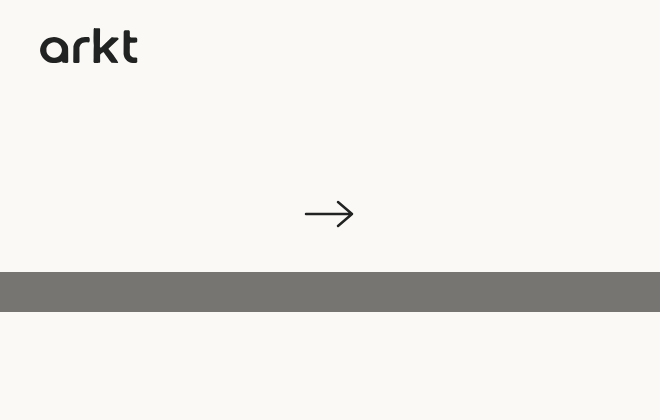
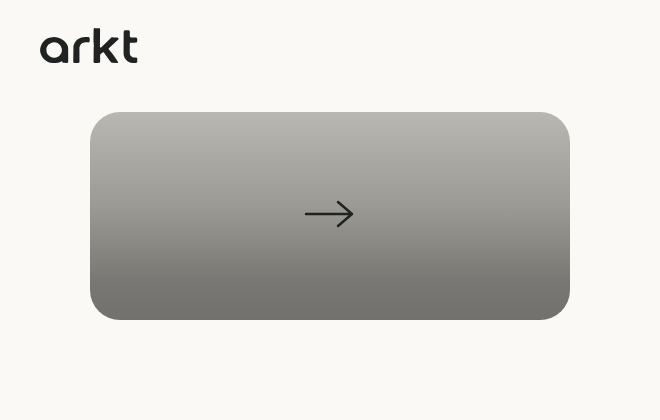
Add direction D and soften the label zones in A, B, C (#983)

diff --git a/design/install-dmg/directions/c/background.html b/design/install-dmg/directions/c/background.html
@@ -3,13 +3,12 @@
 html,body{margin:0}
 body{width:660px;height:420px;position:relative;overflow:hidden;background:#202321;font-family:"Avenir Next","AvenirNext-Regular",-apple-system,sans-serif}
 .mark{position:absolute;left:28px;top:20px;width:120px;height:auto;display:block}
-/* label wells: mid-tone plates that keep black and white Finder labels at about 4.4 to 4.8:1 */
-.well{position:absolute;top:262px;width:150px;height:28px;border-radius:9px;background:#767A77}
-.well.l{left:115px}.well.r{left:395px}
+/* label card: a soft rounded card that ends in a mid-tone and keep black and white Finder labels at about 4.4 to 4.8:1 */
+.well{position:absolute;left:90px;top:112px;width:480px;height:208px;border-radius:30px;background:linear-gradient(#34383A 0%,#4D524F 40%,#747875 82%,#777B78 100%)}
 svg{position:absolute;left:0;top:0}
 .hint{position:absolute;left:0;width:660px;top:352px;text-align:center;font-size:12.5px;line-height:18px;font-weight:400;color:#B9BDB8}
 </style>
 <img class="mark" src="../../../brand/vector/wordmarks/arkt-ivory.svg" alt="">
-<div class="well l"></div><div class="well r"></div>
+<div class="well"></div>
 <svg width="660" height="420" viewBox="0 0 660 420"><path d="M304 200H338V190L360 204L338 218V208H304Z" fill="#E9B520" transform="translate(0 -4)"/></svg>
 <div class="hint">First open: System Settings &gt; Privacy &amp; Security &gt; Open Anyway</div>

diff --git a/design/install-dmg/directions/d/mock.html b/design/install-dmg/directions/d/mock.html
@@ -1,0 +1,13 @@
+<!doctype html><meta charset="utf-8"><title>Arkt install DMG window mock, direction a</title>
+<link rel="stylesheet" href="../shared/mock.css">
+<!-- #light (default) or #dark switches the Finder appearance. Icon centers are in points from the content top-left. -->
+<body>
+<div class="window"><div class="titlebar"><div class="lights"><i></i><i></i><i></i></div><div class="title">Arkt</div></div>
+<div class="content">
+<iframe src="background.html" title="background"></iframe>
+<div class="icon" style="left:126px;top:136px"><img src="../../../brand/vector/macOS/mustard-on-white.svg" alt="Arkt"></div>
+<div class="icon" style="left:406px;top:136px"><img src="../shared/applications.svg" alt="Applications"></div>
+<div class="label" style="left:130px;top:268px">Arkt</div>
+<div class="label" style="left:410px;top:268px">Applications</div>
+</div></div>
+<script>document.documentElement.dataset.mode = location.hash === "#dark" ? "dark" : "light";</script>

diff --git a/design/install-dmg/directions/a/background.html b/design/install-dmg/directions/a/background.html
@@ -3,8 +3,8 @@
 html,body{margin:0}
 body{width:660px;height:420px;position:relative;overflow:hidden;background:#FAF9F5}
 .mark{position:absolute;left:28px;top:20px;width:120px;height:auto;display:block}
-/* the shelf: a mid-tone stone band, readable under black and under white Finder labels (about 4.6:1 each) */
-.shelf{position:absolute;left:0;top:272px;width:660px;height:40px;background:#767571}
+/* the shelf: a soft rounded stone card that ends in a mid-tone, readable under black and under white Finder labels (about 4.6:1 each) */
+.shelf{position:absolute;left:90px;top:112px;width:480px;height:208px;border-radius:30px;background:linear-gradient(#B9B7B2 0%,#9C9A95 45%,#787773 82%,#72716D 100%)}
 svg{position:absolute;left:0;top:0}
 </style>
 <img class="mark" src="../../../brand/vector/wordmarks/arkt-graphite.svg" alt="">

diff --git a/design/install-dmg/directions/b/background.html b/design/install-dmg/directions/b/background.html
@@ -10,7 +10,7 @@ svg{position:absolute;left:0;top:0}
 <path d="M300 0H660V150C560 140 430 90 300 0Z" fill="#F3CA3D"/>
 <path d="M470 0H660V74C600 64 520 40 470 0Z" fill="#DCA319"/>
 <path d="M0 420V352C110 360 200 396 260 420Z" fill="#DCA319"/>
-<rect x="0" y="248" width="660" height="52" fill="#A96E12"/>
+<defs><linearGradient id="s" x1="0" y1="0" x2="0" y2="1"><stop offset="0" stop-color="#F3CA3D"/><stop offset=".5" stop-color="#D49A1A"/><stop offset=".82" stop-color="#A96E12"/><stop offset="1" stop-color="#9F6710"/></linearGradient></defs><rect x="90" y="112" width="480" height="208" rx="30" fill="url(#s)"/>
 <path d="M306 196H340V186L360 200L340 214V204H306Z" fill="#202321"/>
 </svg>
 <img class="mark" src="../../../brand/vector/wordmarks/arkt-graphite.svg" alt="">

diff --git a/design/install-dmg/directions/d/background.html b/design/install-dmg/directions/d/background.html
@@ -1,0 +1,10 @@
+<!doctype html><meta charset="utf-8"><title>Arkt install DMG background, direction D: one tone, giant wordmark</title>
+<style>
+html,body{margin:0}
+/* the whole field is the mid-tone (brand fold shadow), so labels are readable anywhere */
+body{width:660px;height:420px;position:relative;overflow:hidden;background:#A96E12}
+.big{position:absolute;left:-30px;top:84px;width:720px;height:auto;display:block;opacity:.2}
+svg{position:absolute;left:0;top:0}
+</style>
+<img class="big" src="../../../brand/vector/wordmarks/arkt-mustard.svg" alt="">
+<svg width="660" height="420" viewBox="0 0 660 420"><path d="M304 196H338V186L360 200L338 214V204H304Z" fill="#FAF9F5"/></svg>

diff --git a/design/install-dmg/README.md b/design/install-dmg/README.md
@@ -1,6 +1,6 @@
 # Install DMG window (draft, directions only)
 
-Issue #983. The Finder window that opens when a user mounts `Arkt-0.1.0-preview.1-arm64.dmg`. Three directions are
+Issue #983. The Finder window that opens when a user mounts `Arkt-0.1.0-preview.1-arm64.dmg`. Four directions are
 here for the maintainer to pick from; nothing is built yet.
 
 ## Gate
@@ -27,9 +27,10 @@ below are icon centers, in points from the content top-left, which is what the F
 
 | | Arkt.app | Applications | Arrow (drawn in art) | Label zone (art) | Hint |
 |---|---|---|---|---|---|
-| A porcelain | (190, 214) | (470, 214) | x 306 to 352, y 214, centered at x 330 | full-width band, y 272 to 312 | none |
-| B mustard | (190, 196) | (470, 196) | x 306 to 360, y 196 | full-width band, y 248 to 300 | centered, y 350 to 368 |
-| C graphite | (190, 200) | (470, 200) | x 304 to 360, y 200 | wells 150 x 28 at x 115 to 265 and 395 to 545, y 262 to 290 | centered, y 352 to 370 |
+| A porcelain | (190, 214) | (470, 214) | x 306 to 352, y 214, centered at x 330 | rounded card x 90 to 570, y 112 to 320, fading to stone at the bottom | none |
+| B mustard | (190, 196) | (470, 196) | x 306 to 360, y 196 | rounded card x 90 to 570, y 112 to 320, mustard fading to fold shadow | centered, y 350 to 368 |
+| C graphite | (190, 200) | (470, 200) | x 304 to 360, y 200 | rounded card, same frame as A and B | centered, y 352 to 370 |
+| D one tone | (190, 200) | (470, 200) | x 304 to 360, y 200 | the whole field | none |
 
 Labels sit about 76 pt below each icon center (Finder: icon bottom plus about 12).
 
@@ -37,23 +38,27 @@ Labels sit about 76 pt below each icon center (Finder: icon bottom plus about 12
 
 Finder draws labels in the system appearance and ignores the background: black text in light mode, white in dark
 mode (this is the usual behavior with a picture background; it has not been verified on a mounted DMG here, because
-no DMG is built yet). A light band fails in dark mode and a dark band fails in light mode. A tone with relative
+no DMG is built yet; a throwaway test DMG was tried in dark appearance, but the layout did not apply to the Finder window, so it showed nothing about picture backgrounds). A light band fails in dark mode and a dark band fails in light mode. A tone with relative
 luminance near 0.18 (about `#767676`) gives black and white text the same contrast, about 4.6:1. Every direction
 therefore puts the label zone on one mid-tone:
 
-- A: stone `#767571` shelf under the icons (black 4.6:1, white 4.6:1).
-- B: the brand fold shadow `#A96E12` band (black 4.9:1, white 4.3:1).
-- C: `#767A77` wells under each label (black 4.8:1, white 4.4:1).
+- A: a soft rounded card that fades from light stone to `#787773` where the labels sit (about 4.5:1 each).
+- B: a rounded card from mustard to the brand fold shadow `#A96E12` (black 4.9:1, white 4.3:1 at the labels).
+- C: a rounded card from graphite up to `#747875` at the labels (about 4.5:1 each).
+- D: the whole field is `#A96E12`, so nothing needs a zone.
 
 Finder's own selection pill and 2-line wrapping for long names still draw over the zone; the zones are taller than one line.
 
 ## Directions
 
-- **A, porcelain minimal.** `#FAF9F5`, graphite wordmark, a hairline arrow, a stone shelf the icons stand on, lots of
+A, B and C: the label zone is a rounded card (480 x 208 pt at x 90, y 112) behind both icons, with a gradient that reaches the mid-tone at label height.
+
+- **A, porcelain minimal.** `#FAF9F5`, graphite wordmark, a hairline arrow, a rounded stone card the icons stand on, lots of
   air. No hint.
 - **B, mustard hero.** `#E9B520` field with folded bands in `#F3CA3D` and `#DCA319`; the label zone is the `#A96E12`
   fold band. Bold graphite arrow. Hint in graphite on mustard (about 10:1).
-- **C, graphite.** `#202321`, ivory wordmark, a mustard arrow (a fill), plates under the labels. Hint in `#B9BDB8`.
+- **D, one tone, giant wordmark.** The whole field is `#A96E12`; a giant mustard wordmark at 20% opacity bleeds off both sides behind the icons; ivory arrow. No hint.
+- **C, graphite.** `#202321`, ivory wordmark, a mustard arrow (a fill), a rounded card under the icons. Hint in `#B9BDB8`.
 
 Type: the hint is Avenir Next 400 to 500 at 12.5 to 13 pt, rasterized into the background (no font is bundled).
 The wordmarks are the outlined vectors from `design/brand/vector/wordmarks/`.
@@ -68,10 +73,10 @@ icon in the mocks is a stand-in, Finder draws the real one.
 
 | Path | What it is |
 |---|---|
-| `directions/<a\|b\|c>/background.html` | The bare background (what ships), 660 x 420 pt |
-| `directions/<a\|b\|c>/background.png`, `background@2x.png` | The bare background at 1x and 2x |
-| `directions/<a\|b\|c>/mock.html` | Finder window mock with icons, labels and a title bar; `#light` (default) or `#dark` |
-| `directions/<a\|b\|c>/finder-light.png`, `finder-dark.png` | 2x renders of the mock (732 x 520 pt canvas) |
+| `directions/<a\|b\|c\|d>/background.html` | The bare background (what ships), 660 x 420 pt |
+| `directions/<a\|b\|c\|d>/background.png`, `background@2x.png` | The bare background at 1x and 2x |
+| `directions/<a\|b\|c\|d>/mock.html` | Finder window mock with icons, labels and a title bar; `#light` (default) or `#dark` |
+| `directions/<a\|b\|c\|d>/finder-light.png`, `finder-dark.png` | 2x renders of the mock (732 x 520 pt canvas) |
 | `directions/shared/` | Mock-only CSS and the Applications folder stand-in |
 
 Renders: headless Chromium (Playwright's `chrome-headless-shell`), `--force-device-scale-factor=2`, offline, with
